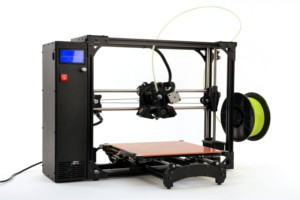
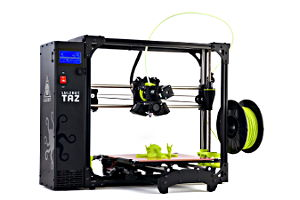
Update TAZ 6 pictures
Photos taken by Ben Malouf
Fixes T398

diff --git a/Cura/gui/configWizard.py b/Cura/gui/configWizard.py
@@ -1243,7 +1243,7 @@ class LulzbotTaz6ToolheadSelectPage(InfoPage):
 		self.panel = self.AddPanel()
 		image_size=(LulzbotMachineSelectPage.IMAGE_WIDTH, LulzbotMachineSelectPage.IMAGE_HEIGHT)
 		self.standard = self.AddImageButton(self.panel, 0, 0, _('Single Extruder v2.1'),
-										'Lulzbot_Toolhead_TAZ_Tilapia.jpg', image_size,
+										'Lulzbot_Toolhead_TAZ6_Single-v2.1.jpg', image_size,
 										style=ImageButton.IB_GROUP)
 		self.flexy = self.AddImageButton(self.panel, 0, 1, _('Flexystruder v2'),
 										'Lulzbot_Toolhead_TAZ_Flexystruder_v2.jpg', image_size)
